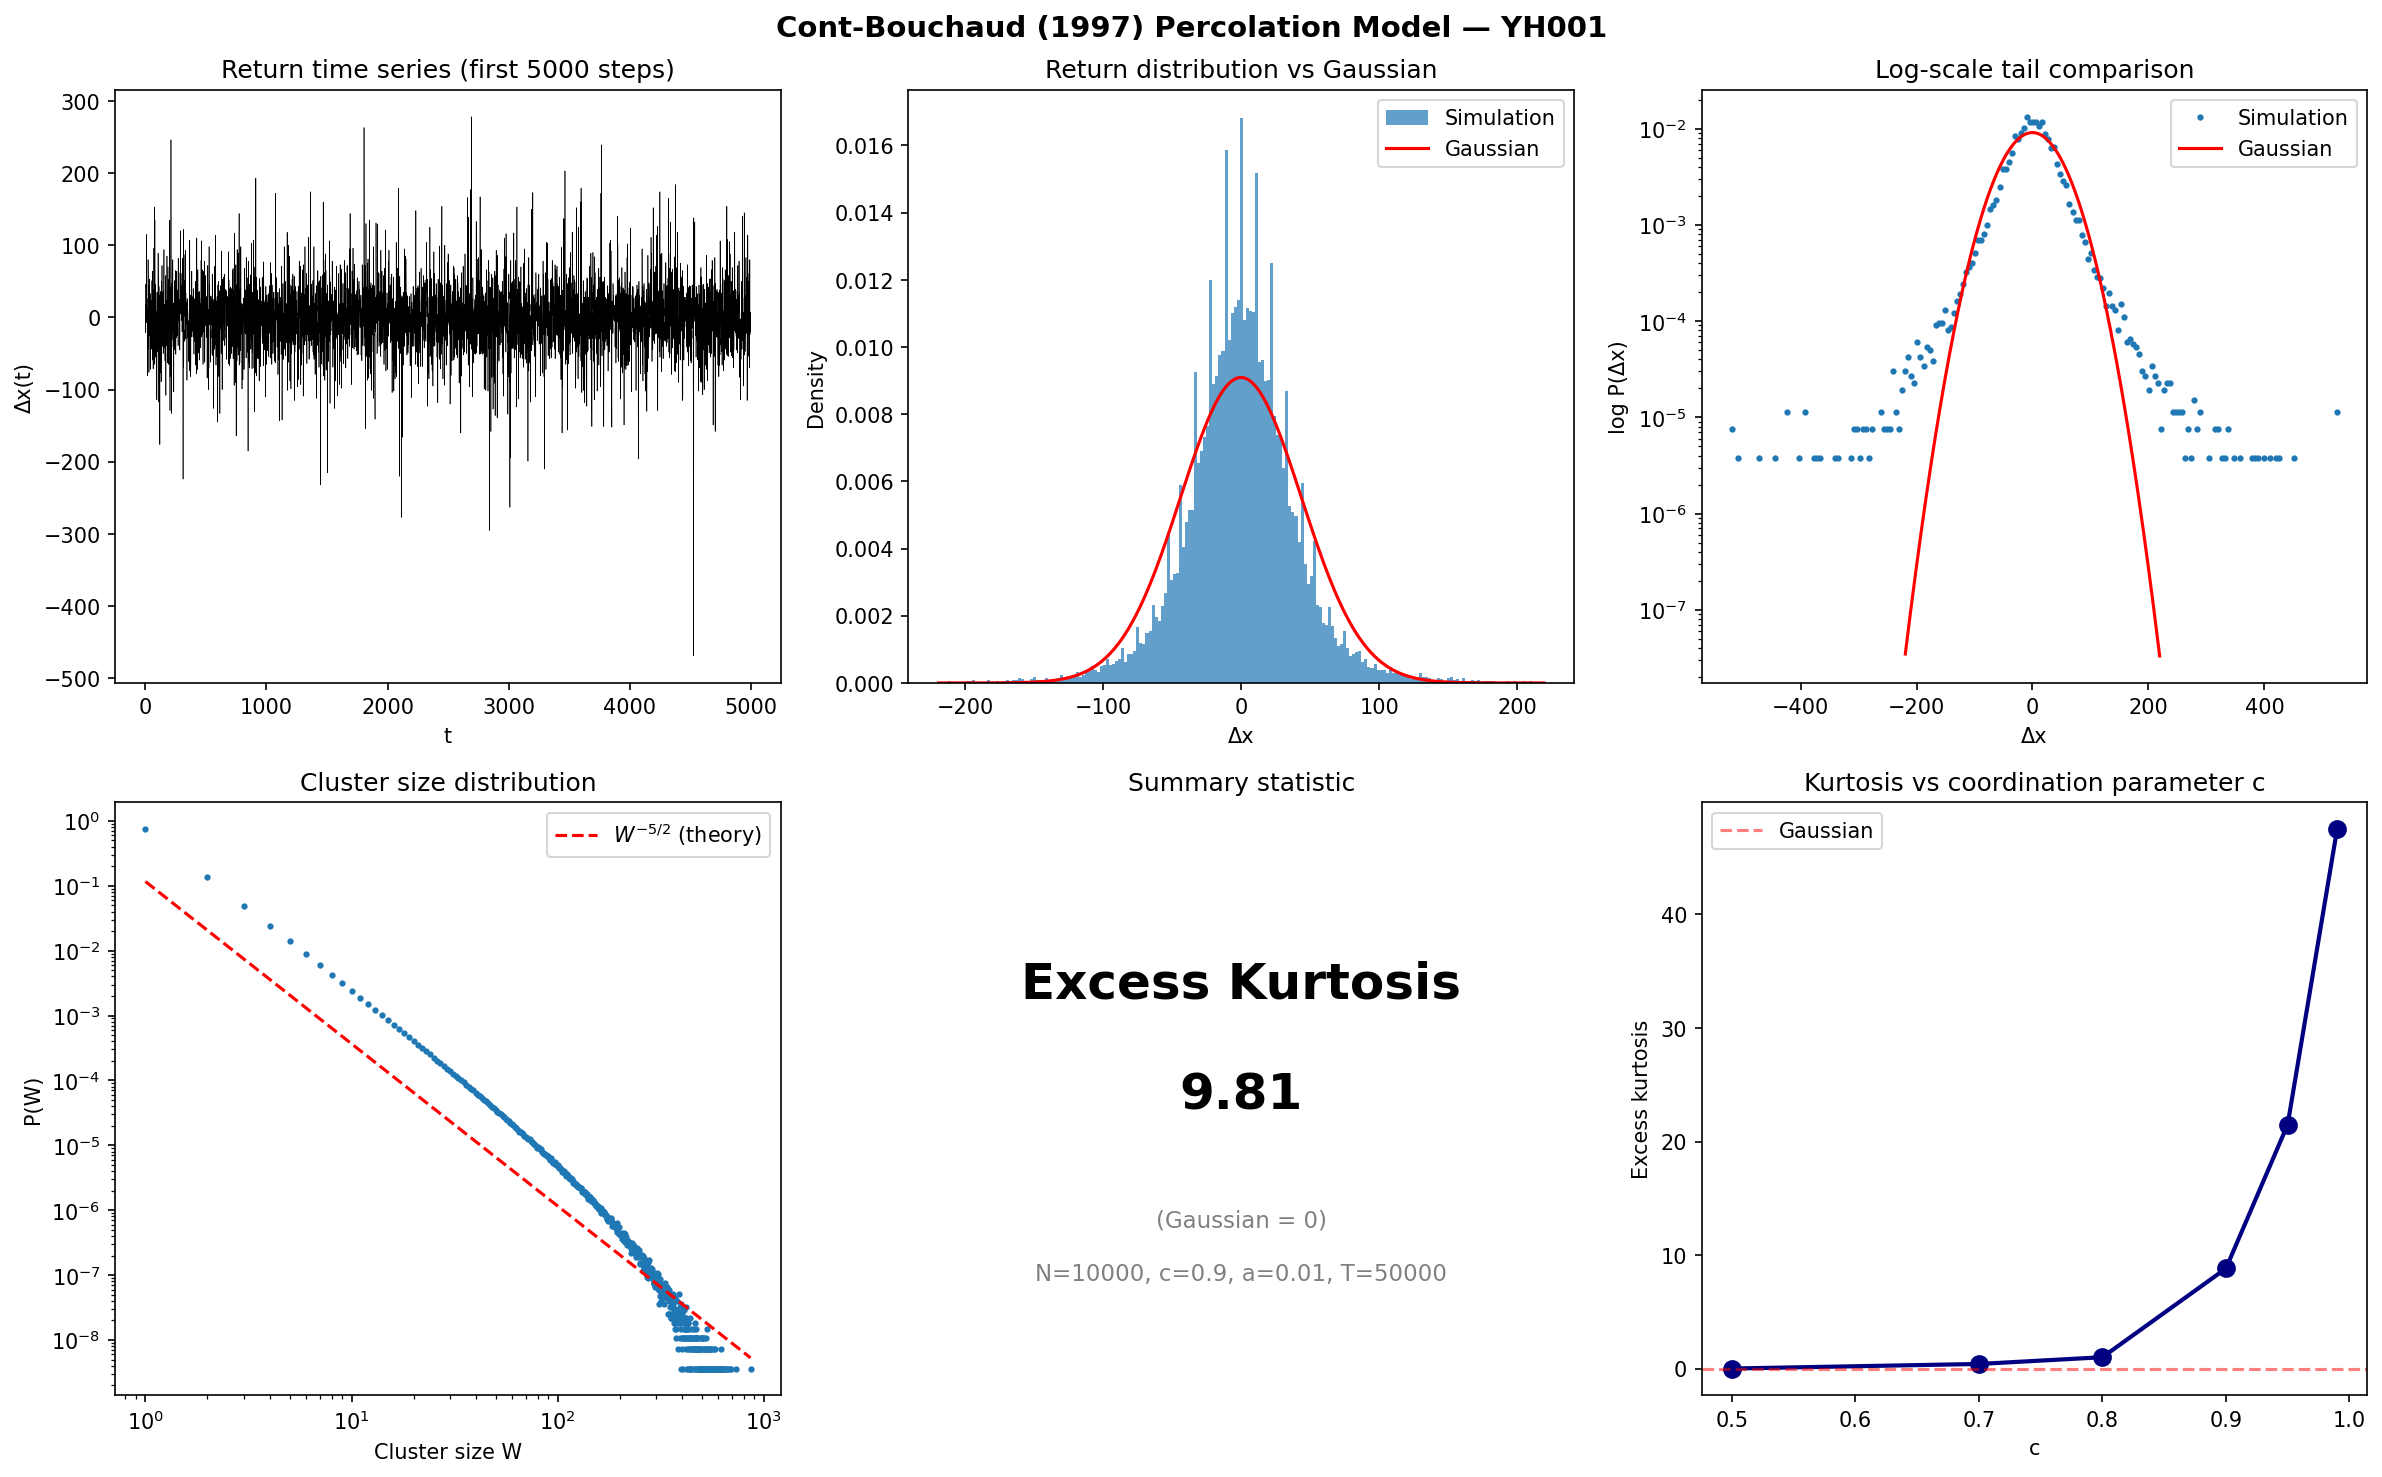
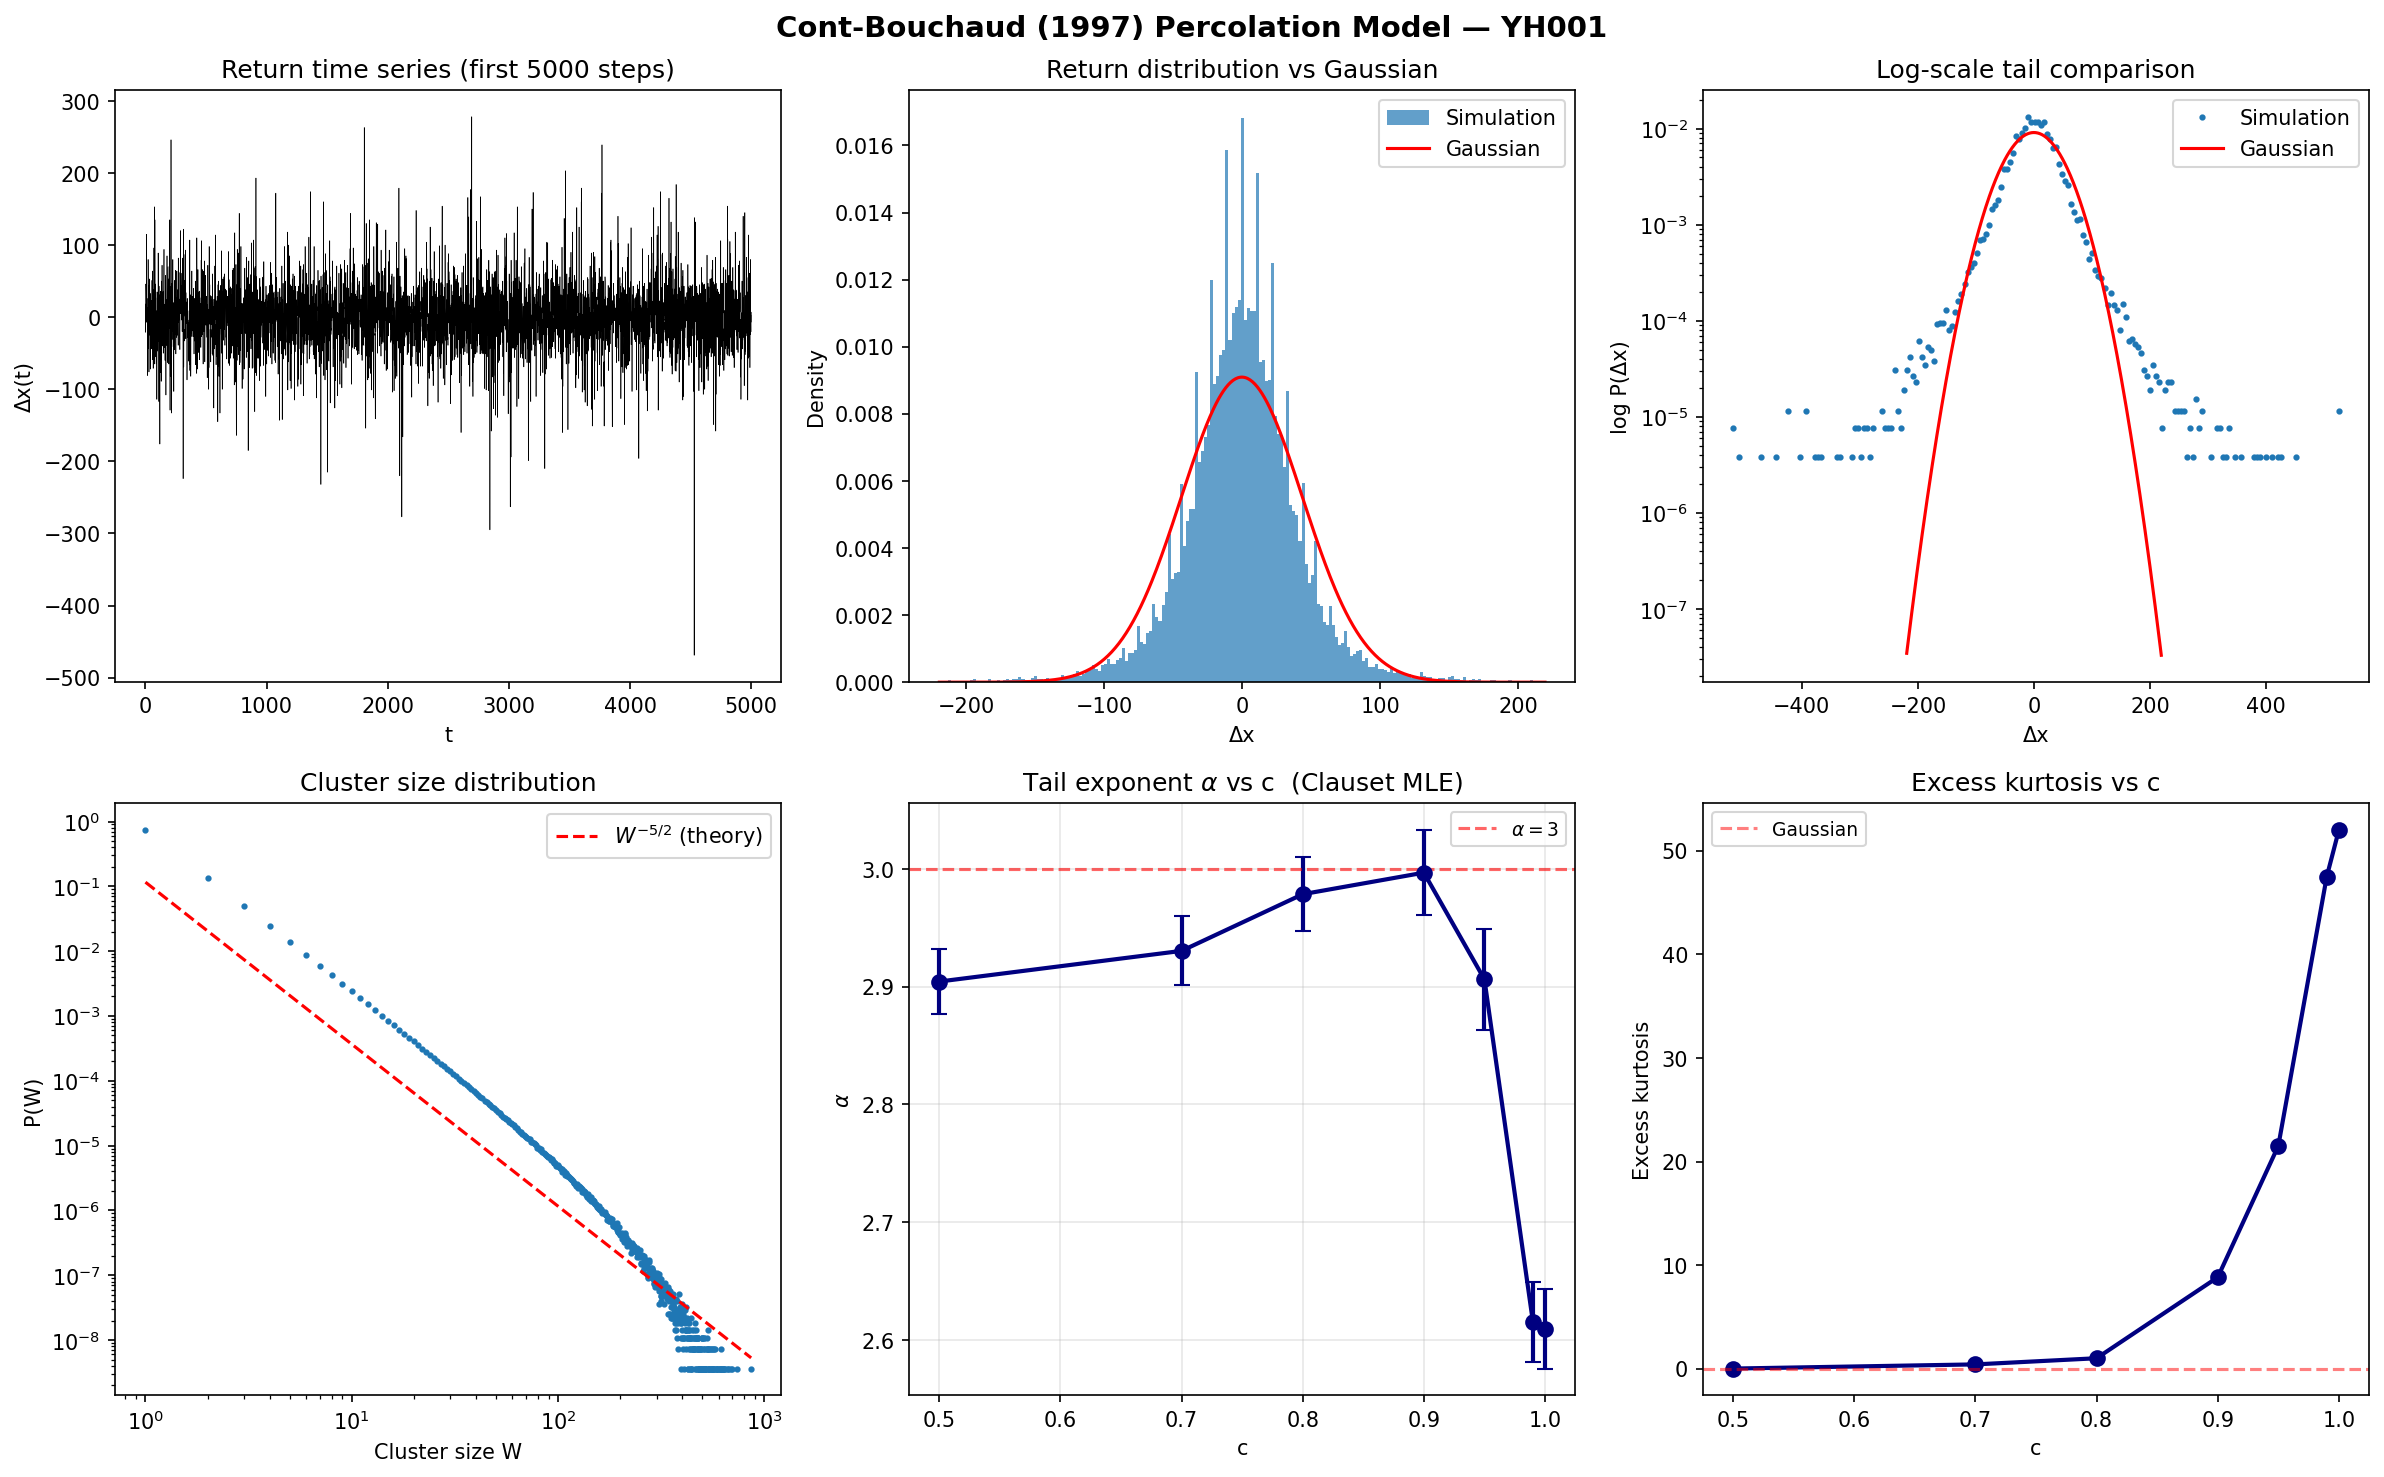
add tail analysis to results

diff --git a/experiments/YH001/run_simulation.py b/experiments/YH001/run_simulation.py
@@ -8,21 +8,10 @@ from __future__ import annotations
 
 import time
 import numpy as np
+import powerlaw
 import matplotlib.pyplot as plt
 from scipy.stats import norm
 from model import simulate
-
-
-def theoretical_kurtosis(N: int, c: float, a: float) -> float:
-    """Approximate excess kurtosis from Cont-Bouchaud Eq.(15).
-
-    κ ≈ (1/(2a) - 1) * <W^4>/<W^2>^2 - 3  (simplified form)
-    For ER graph near percolation: <W^k> diverges, but we use the
-    mean-field approximation for finite N.
-    """
-    # This is a rough approximation; the exact form depends on cluster
-    # size moments which we estimate from simulation instead.
-    return float("nan")
 
 
 def run_and_plot():
@@ -116,50 +105,47 @@ def run_and_plot():
     ax.set_ylabel("P(W)")
     ax.legend()
 
-    # 5. Excess kurtosis display
-    ax = axes[1, 1]
-    ax.text(
-        0.5,
-        0.6,
-        f"Excess Kurtosis\n\n{kurt:.2f}",
-        transform=ax.transAxes,
-        fontsize=24,
-        ha="center",
-        va="center",
-        fontweight="bold",
-    )
-    ax.text(
-        0.5,
-        0.25,
-        f"(Gaussian = 0)\n\nN={params['N']}, c={params['c']}, a={params['a']}, T={params['T']}",
-        transform=ax.transAxes,
-        fontsize=11,
-        ha="center",
-        va="center",
-        color="gray",
-    )
-    ax.set_axis_off()
-    ax.set_title("Summary statistic")
-
-    # 6. Parameter sensitivity: kurtosis vs c
-    ax = axes[1, 2]
-    c_values = [0.5, 0.7, 0.8, 0.9, 0.95, 0.99]
+    # 5 & 6: Parameter sweep — compute kurtosis and α together
+    c_values = [0.5, 0.7, 0.8, 0.9, 0.95, 0.99, 1.0]
     kurtosis_values = []
-    print("\nParameter sensitivity (c vs kurtosis):")
+    alpha_values = []
+    alpha_sigmas = []
+    print("\nParameter sweep (c → kurtosis, α):")
     for c_val in c_values:
         print(f"  c={c_val} ...", end=" ", flush=True)
         t0 = time.time()
         res = simulate(N=10000, c=c_val, a=0.01, T=10000, seed=42, report_every=0)
-        k = sp_kurtosis(res["returns"], fisher=True)
+        r = res["returns"]
+        k = sp_kurtosis(r, fisher=True)
         kurtosis_values.append(k)
-        print(f"kurtosis={k:.2f}  ({time.time()-t0:.1f}s)")
+        abs_r = np.abs(r)
+        abs_r = abs_r[abs_r > 0]
+        fit = powerlaw.Fit(abs_r, discrete=True, verbose=False)
+        alpha_values.append(fit.power_law.alpha)
+        alpha_sigmas.append(fit.power_law.sigma)
+        print(f"kurtosis={k:.2f}, α={fit.power_law.alpha:.3f}  ({time.time()-t0:.1f}s)")
 
-    ax.plot(c_values, kurtosis_values, "o-", color="navy", linewidth=2, markersize=8)
-    ax.set_title("Kurtosis vs coordination parameter c")
+    # 5. Tail exponent α vs c
+    ax = axes[1, 1]
+    ax.errorbar(
+        c_values, alpha_values, yerr=alpha_sigmas,
+        fmt="o-", color="navy", linewidth=2, markersize=7, capsize=4,
+    )
+    ax.axhline(y=3.0, color="red", linestyle="--", alpha=0.6, label=r"$\alpha=3$")
+    ax.set_title(r"Tail exponent $\alpha$ vs c  (Clauset MLE)")
+    ax.set_xlabel("c")
+    ax.set_ylabel(r"$\alpha$")
+    ax.legend(fontsize=9)
+    ax.grid(True, alpha=0.3)
+
+    # 6. Kurtosis vs c
+    ax = axes[1, 2]
+    ax.plot(c_values, kurtosis_values, "o-", color="navy", linewidth=2, markersize=7)
+    ax.set_title("Excess kurtosis vs c")
     ax.set_xlabel("c")
     ax.set_ylabel("Excess kurtosis")
     ax.axhline(y=0, color="red", linestyle="--", alpha=0.5, label="Gaussian")
-    ax.legend()
+    ax.legend(fontsize=9)
 
     plt.tight_layout()
     plt.savefig("results.png", dpi=150, bbox_inches="tight")

diff --git a/experiments/YH001/tail_analysis.py b/experiments/YH001/tail_analysis.py
@@ -1,0 +1,88 @@
+"""Tail exponent α estimation via Clauset et al. (2009) powerlaw package.
+
+Sweep c = [0.5, 0.7, 0.8, 0.9, 0.95, 0.99, 1.0] and plot α vs c.
+
+Usage:
+    cd experiments/YH001
+    python tail_analysis.py
+"""
+
+from __future__ import annotations
+
+import time
+import numpy as np
+import powerlaw
+import matplotlib.pyplot as plt
+from model import simulate
+
+
+def estimate_alpha(returns: np.ndarray) -> dict:
+    """Fit power-law tail to |returns| using Clauset's method."""
+    abs_r = np.abs(returns)
+    abs_r = abs_r[abs_r > 0]
+    fit = powerlaw.Fit(abs_r, discrete=True, verbose=False)
+    return {
+        "alpha": fit.power_law.alpha,
+        "xmin": fit.power_law.xmin,
+        "sigma": fit.power_law.sigma,
+    }
+
+
+def main():
+    c_values = [0.5, 0.7, 0.8, 0.9, 0.95, 0.99, 1.0]
+    N = 10000
+    T = 50000
+    a = 0.01
+
+    results = []
+    for c in c_values:
+        print(f"c={c} ...", end=" ", flush=True)
+        t0 = time.time()
+        sim = simulate(N=N, c=c, a=a, T=T, seed=42, report_every=0)
+        fit = estimate_alpha(sim["returns"])
+        elapsed = time.time() - t0
+        print(f"α={fit['alpha']:.3f} (xmin={fit['xmin']:.1f}, σ={fit['sigma']:.3f})  [{elapsed:.1f}s]")
+        results.append({"c": c, **fit})
+
+    alphas = [r["alpha"] for r in results]
+    sigmas = [r["sigma"] for r in results]
+
+    # --- Plot ---
+    fig, ax = plt.subplots(figsize=(8, 5))
+    ax.errorbar(
+        c_values,
+        alphas,
+        yerr=sigmas,
+        fmt="o-",
+        color="navy",
+        linewidth=2,
+        markersize=8,
+        capsize=5,
+        label=r"$\hat{\alpha}$ (Clauset MLE)",
+    )
+    ax.axhline(y=3.0, color="red", linestyle="--", alpha=0.6, label=r"$\alpha=3$ (finite variance boundary)")
+    ax.set_xlabel("Coordination parameter c", fontsize=13)
+    ax.set_ylabel(r"Tail exponent $\alpha$", fontsize=13)
+    ax.set_title("Cont-Bouchaud (1997): tail exponent vs herding strength", fontsize=13)
+    ax.legend(fontsize=11)
+    ax.grid(True, alpha=0.3)
+
+    # Annotate
+    for c, a_val in zip(c_values, alphas):
+        ax.annotate(
+            f"{a_val:.2f}",
+            (c, a_val),
+            textcoords="offset points",
+            xytext=(0, 12),
+            ha="center",
+            fontsize=9,
+        )
+
+    plt.tight_layout()
+    plt.savefig("tail_exponent.png", dpi=150, bbox_inches="tight")
+    print(f"\nSaved to tail_exponent.png")
+    plt.close()
+
+
+if __name__ == "__main__":
+    main()
